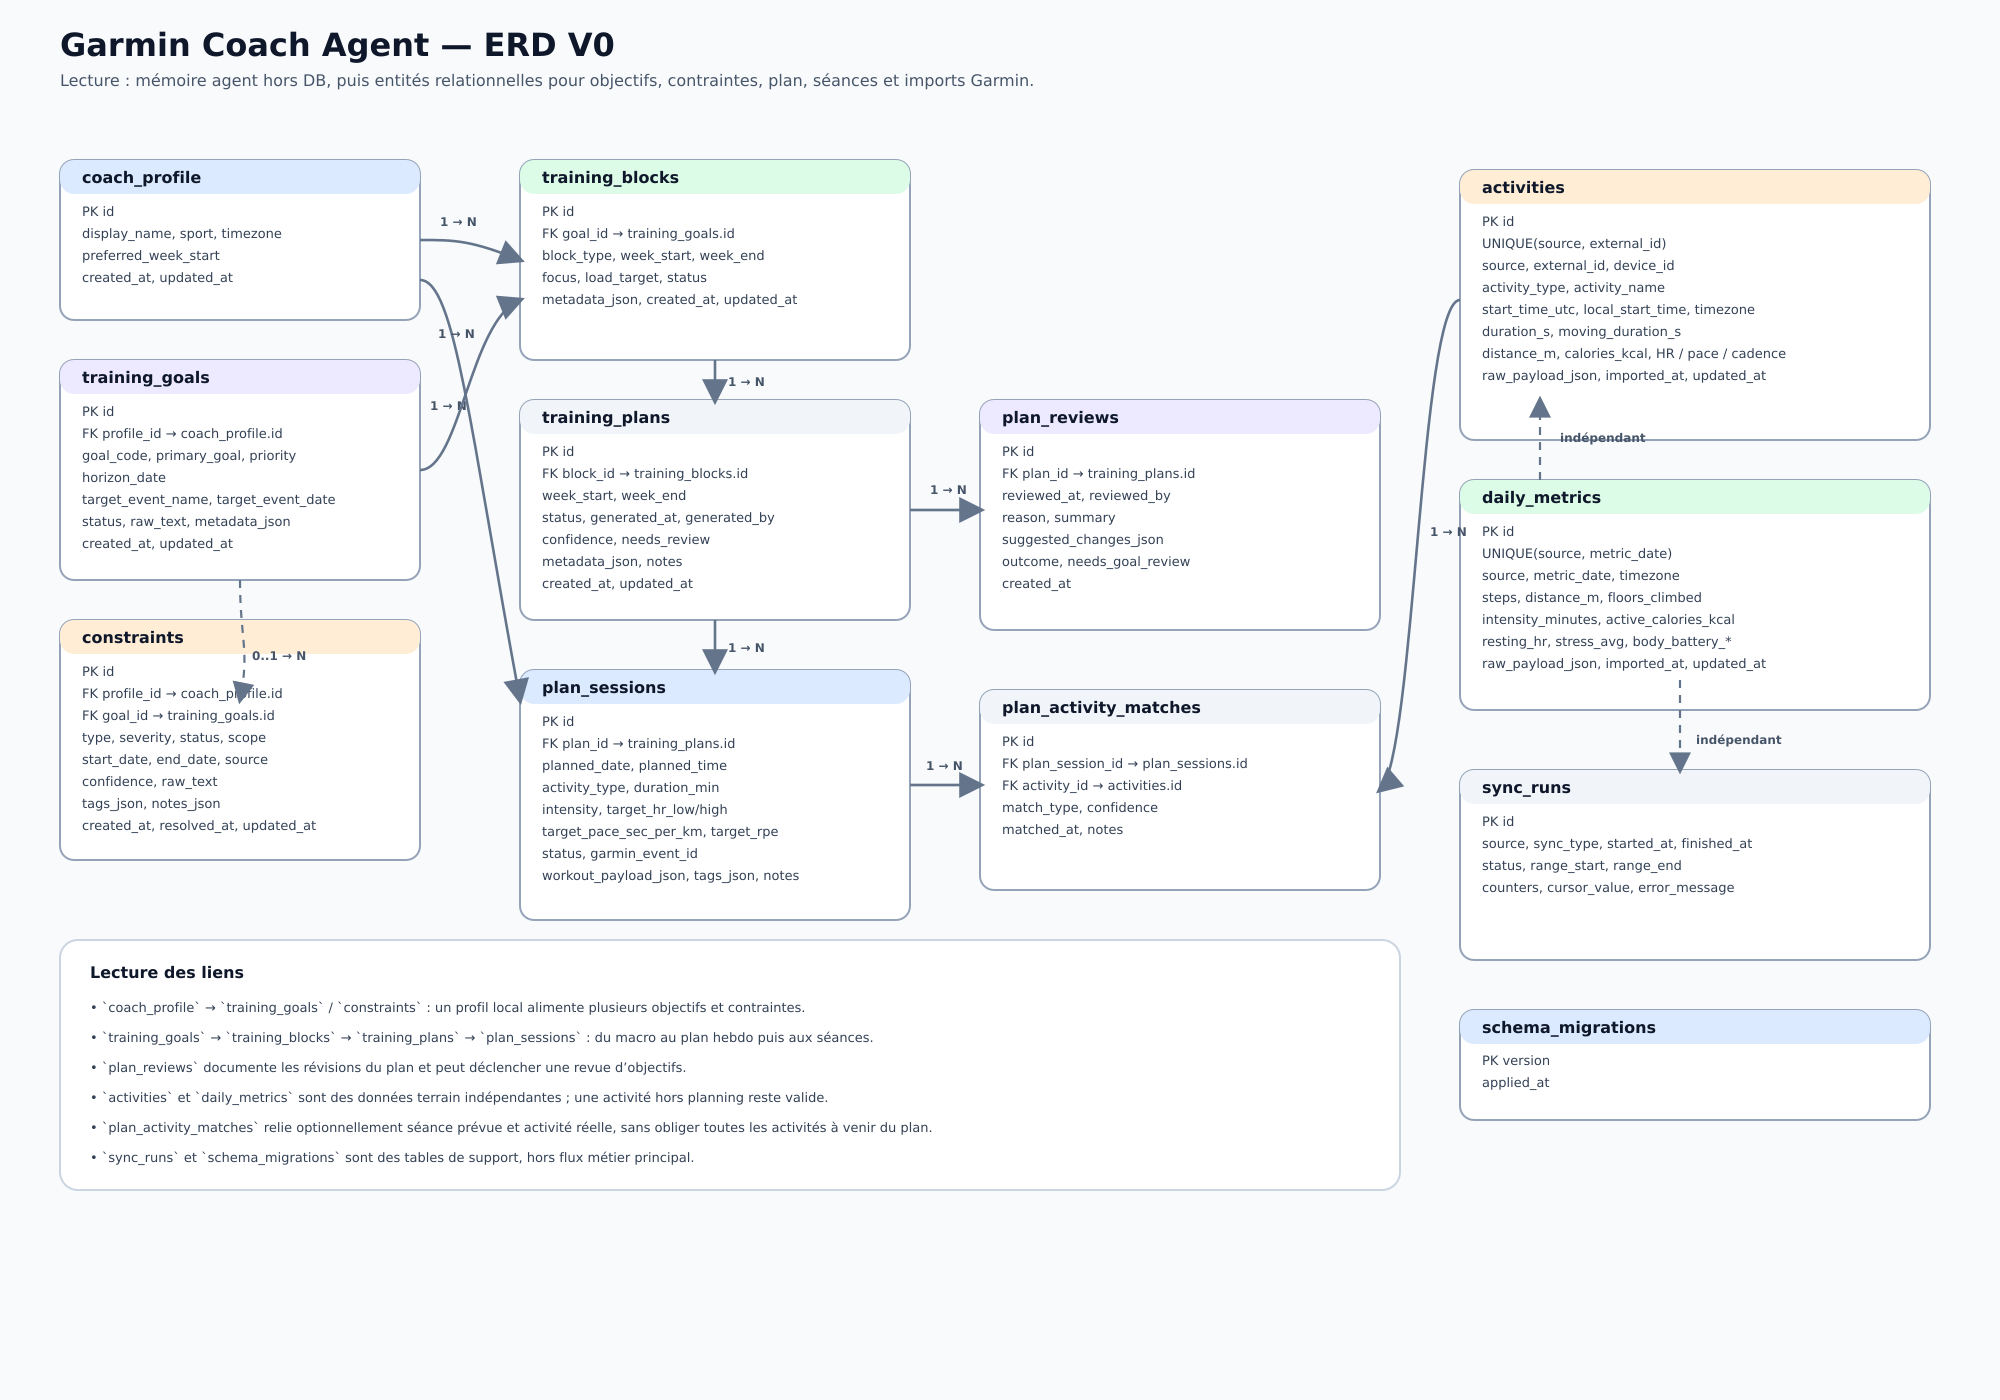
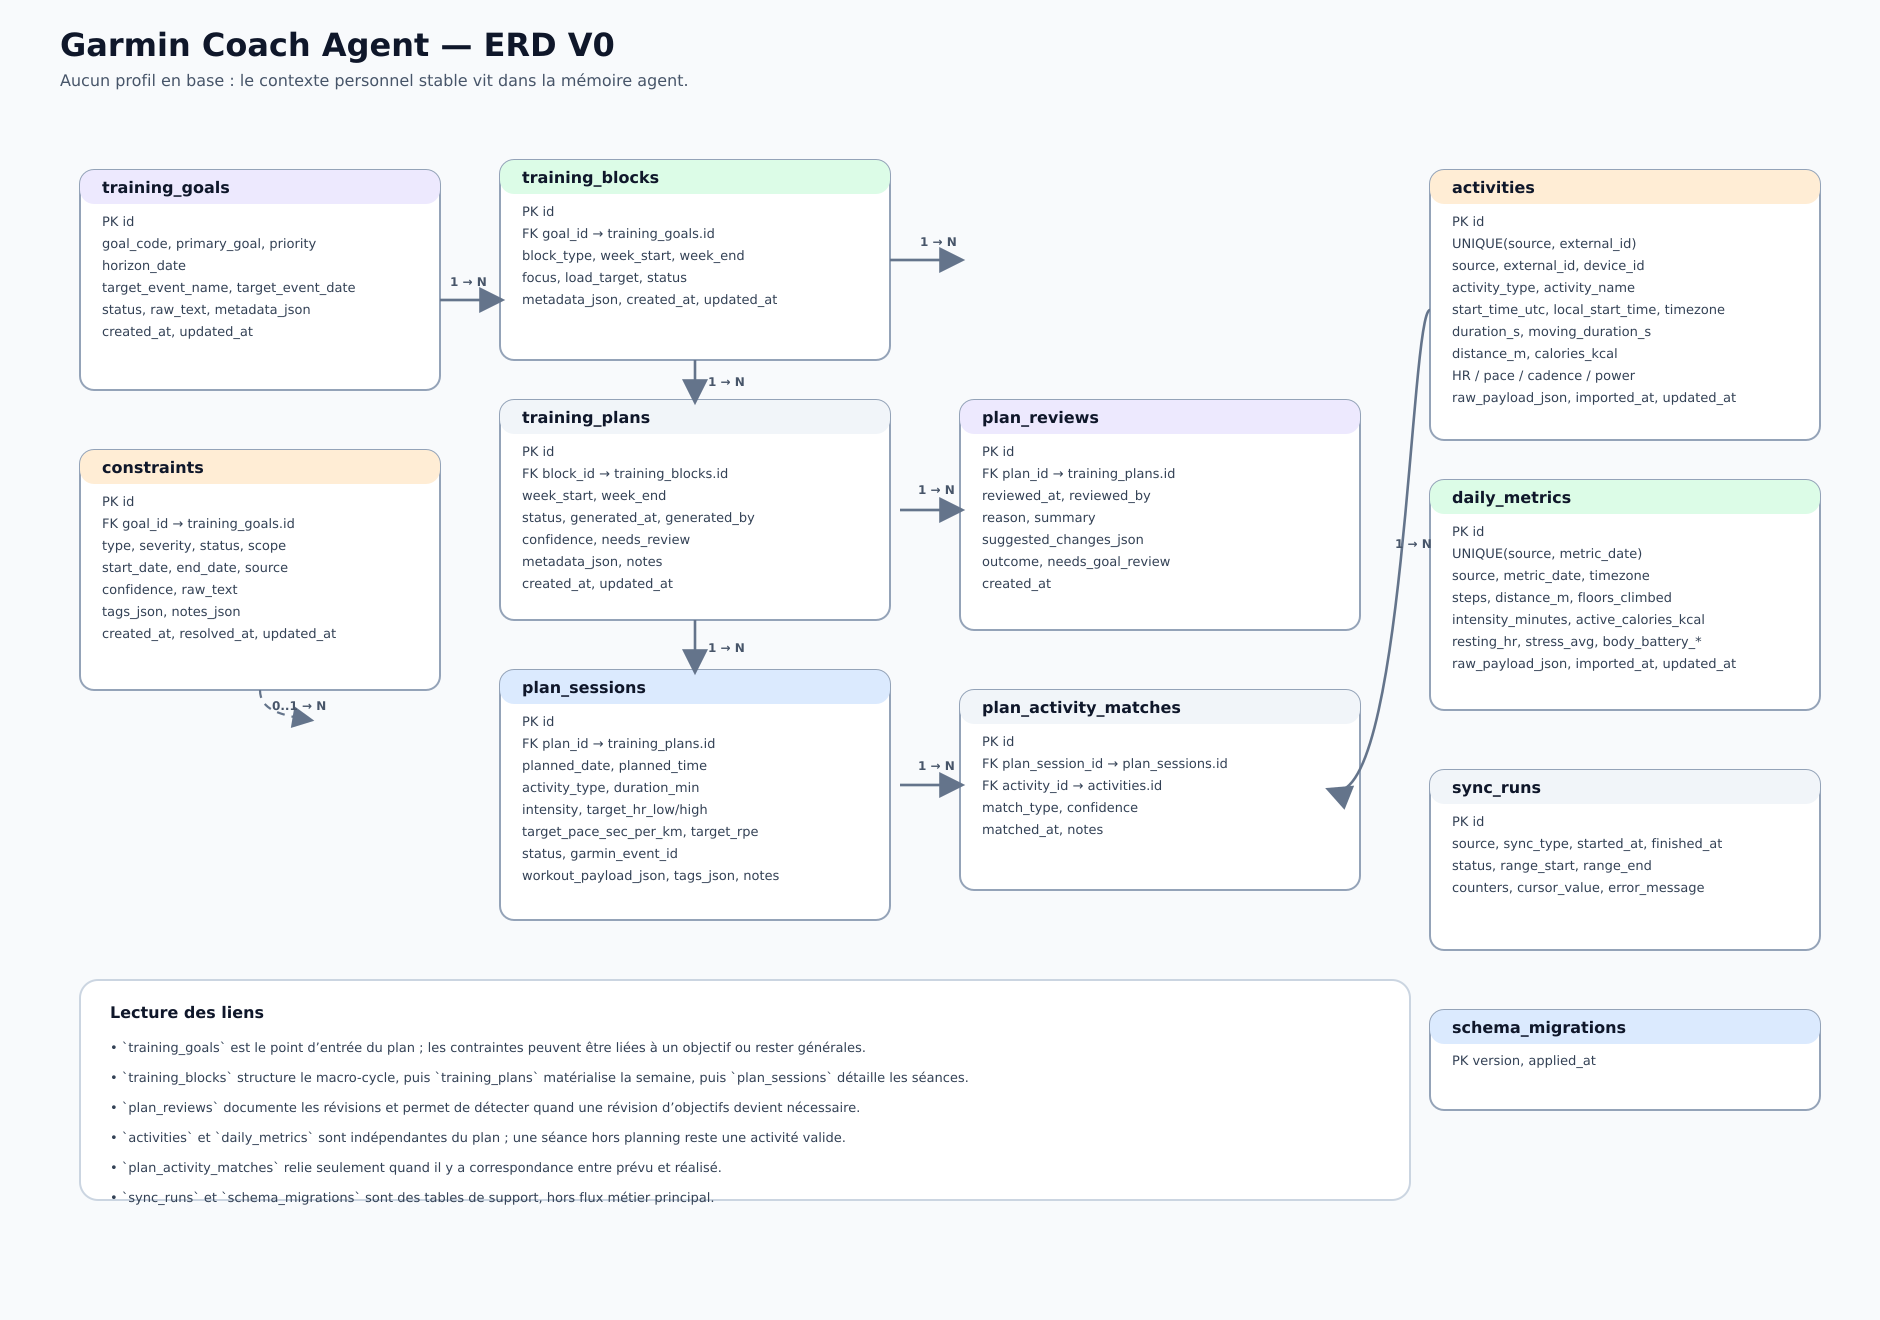
Simplifier le schéma de données

diff --git a/docs/spec/database.md b/docs/spec/database.md
@@ -10,7 +10,8 @@ La base de données stocke ce qui est nécessaire pour raisonner sur l’entraî
 - schéma simple et lisible
 - tables stables
 - payload brut conservé quand utile pour debug, revue et évolution
-- le plan courant est stocké en base, mais les objectifs et préférences durables vivent aussi dans la mémoire agent
+- le plan courant est stocké en base
+- les infos perso stables vivent dans la mémoire de l’agent, pas dans la DB
 
 ## Schéma relationnel V0
 
@@ -20,7 +21,6 @@ La base de données stocke ce qui est nécessaire pour raisonner sur l’entraî
 
 ### Principes
 
-- un profil de coach local par utilisateur
 - des objectifs versionnés
 - des contraintes semi-structurées avec texte brut + tags
 - un cycle macro en blocs
@@ -30,29 +30,11 @@ La base de données stocke ce qui est nécessaire pour raisonner sur l’entraî
 - des métriques journalières simples
 - un historique des synchronisations
 - une table de migrations
+- pas de table de profil utilisateur : le contexte personnel stable est gardé côté mémoire agent
 
 ---
 
 ## Tables
-
-### `coach_profile`
-
-Profil local minimal du coach.
-
-C’est une seule ligne de configuration utile au planner : sport, timezone, semaine de référence, réglages par défaut.
-Ce n’est pas la mémoire longue durée de l’agent, et ce n’est pas un historique.
-
-```sql
-CREATE TABLE coach_profile (
-  id INTEGER PRIMARY KEY AUTOINCREMENT,
-  display_name TEXT,
-  sport TEXT NOT NULL DEFAULT 'running',
-  timezone TEXT NOT NULL DEFAULT 'UTC',
-  preferred_week_start TEXT NOT NULL DEFAULT 'monday',
-  created_at TEXT NOT NULL DEFAULT CURRENT_TIMESTAMP,
-  updated_at TEXT NOT NULL DEFAULT CURRENT_TIMESTAMP
-);
-```
 
 ### `training_goals`
 
@@ -61,7 +43,6 @@ Objectifs et événements cibles.
 ```sql
 CREATE TABLE training_goals (
   id INTEGER PRIMARY KEY AUTOINCREMENT,
-  profile_id INTEGER NOT NULL,
 
   goal_code TEXT,
   primary_goal TEXT NOT NULL,
@@ -79,8 +60,7 @@ CREATE TABLE training_goals (
   created_at TEXT NOT NULL DEFAULT CURRENT_TIMESTAMP,
   updated_at TEXT NOT NULL DEFAULT CURRENT_TIMESTAMP,
 
-  FOREIGN KEY (profile_id) REFERENCES coach_profile(id),
-  UNIQUE (profile_id, goal_code)
+  UNIQUE (goal_code)
 );
 ```
 
@@ -91,7 +71,6 @@ Contraintes actives ou historisées, avec structure légère.
 ```sql
 CREATE TABLE constraints (
   id INTEGER PRIMARY KEY AUTOINCREMENT,
-  profile_id INTEGER NOT NULL,
   goal_id INTEGER,
 
   type TEXT NOT NULL,
@@ -112,7 +91,6 @@ CREATE TABLE constraints (
   resolved_at TEXT,
   updated_at TEXT NOT NULL DEFAULT CURRENT_TIMESTAMP,
 
-  FOREIGN KEY (profile_id) REFERENCES coach_profile(id),
   FOREIGN KEY (goal_id) REFERENCES training_goals(id)
 );
 ```
@@ -392,25 +370,12 @@ CREATE TABLE schema_migrations (
 
 ## Détail des champs
 
-### `coach_profile`
-
-| Champ | Type | Contraintes | Description |
-|---|---|---|---|
-| id | INTEGER | PK, AUTOINCREMENT | Identifiant du profil |
-| display_name | TEXT | nullable | Nom lisible |
-| sport | TEXT | NOT NULL, DEFAULT 'running' | Sport principal |
-| timezone | TEXT | NOT NULL, DEFAULT 'UTC' | Fuseau horaire |
-| preferred_week_start | TEXT | NOT NULL, DEFAULT 'monday' | Jour de début de semaine |
-| created_at | TEXT | NOT NULL, DEFAULT CURRENT_TIMESTAMP | Date de création |
-| updated_at | TEXT | NOT NULL, DEFAULT CURRENT_TIMESTAMP | Date de mise à jour |
-
 ### `training_goals`
 
 | Champ | Type | Contraintes | Description |
 |---|---|---|---|
 | id | INTEGER | PK, AUTOINCREMENT | Identifiant de l’objectif |
-| profile_id | INTEGER | NOT NULL, FK → coach_profile.id | Profil propriétaire |
-| goal_code | TEXT | nullable, UNIQUE avec profile_id | Code stable optionnel |
+| goal_code | TEXT | nullable, UNIQUE | Code stable optionnel |
 | primary_goal | TEXT | NOT NULL | Objectif principal |
 | priority | TEXT | NOT NULL, DEFAULT 'medium' | Priorité |
 | horizon_date | TEXT | nullable | Horizon visé |
@@ -428,7 +393,6 @@ CREATE TABLE schema_migrations (
 | Champ | Type | Contraintes | Description |
 |---|---|---|---|
 | id | INTEGER | PK, AUTOINCREMENT | Identifiant de contrainte |
-| profile_id | INTEGER | NOT NULL, FK → coach_profile.id | Profil propriétaire |
 | goal_id | INTEGER | nullable, FK → training_goals.id | Objectif lié si pertinent |
 | type | TEXT | NOT NULL | Type normalisé |
 | severity | TEXT | NOT NULL, DEFAULT 'medium' | Intensité |
@@ -626,11 +590,11 @@ CREATE TABLE schema_migrations (
 ## Index recommandés
 
 ```sql
-CREATE INDEX idx_training_goals_profile_status
-  ON training_goals(profile_id, status);
+CREATE INDEX idx_training_goals_status
+  ON training_goals(status);
 
-CREATE INDEX idx_constraints_profile_status
-  ON constraints(profile_id, status);
+CREATE INDEX idx_constraints_status
+  ON constraints(status);
 
 CREATE INDEX idx_training_blocks_goal_week
   ON training_blocks(goal_id, week_start);
